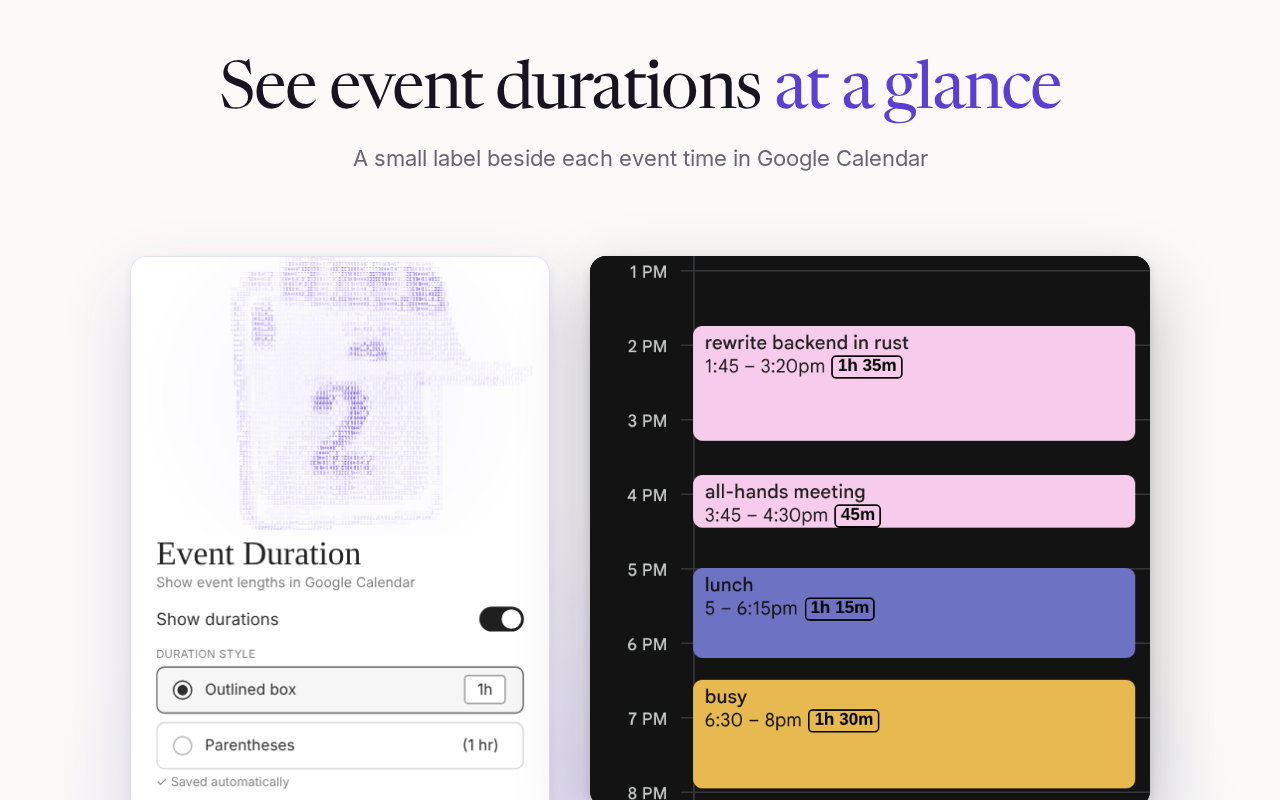
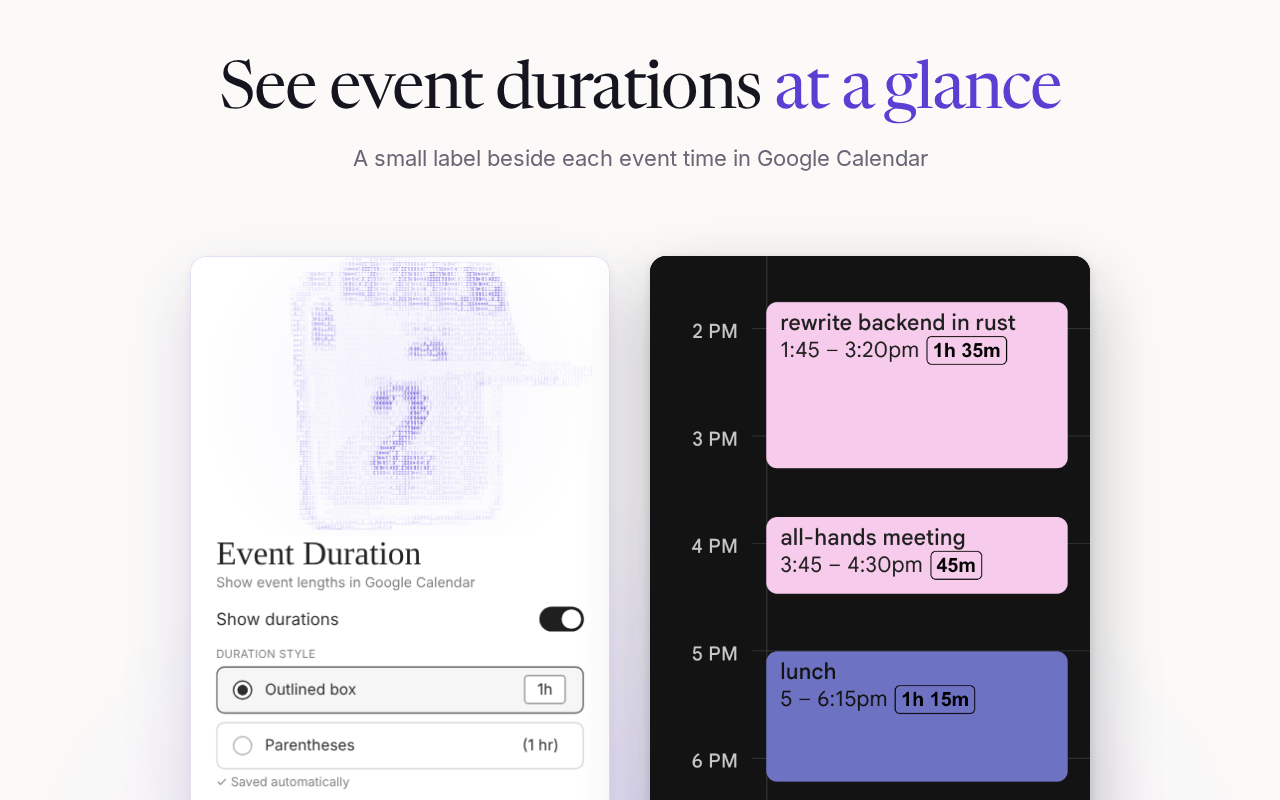
Use the supplied Calendar screenshot on the first store image

Changed region(s): [[0.2188, 0.3125, 0.9062, 1.0], [0.125, 0.6562, 0.375, 1.0], [0.1875, 0.375, 0.2188, 0.4375]]

diff --git a/docs/store-assets/README.md b/docs/store-assets/README.md
@@ -13,7 +13,7 @@ Upload-ready files (Chrome Web Store sizes: screenshots 1280×800, small promo t
 
 ## Editable sources
 
-`source/` holds the cropped captures every image is built from. They come from one live Google Calendar session (Week view, Sunday, October 18, 2026) with the unpacked 0.6.0 extension: `calendar-*.png` is one day's 1–8 PM column in each state (no date header), `popup-*.png` is the real extension popup in the same states, captured at 2× on a settled animation frame, `details-*.png` is the time line of one event's details popup, and `event-chip.png` is one event from the same session. The sidebar, other days, account details, and browser chrome were cropped out before saving. Raw full-window captures are not in the repository.
+`source/` holds the cropped captures every image is built from. They come from one live Google Calendar session (Week view, Sunday, October 18, 2026) with the unpacked 0.6.0 extension: `calendar-*.png` is one day's 1–8 PM column in each state (no date header), `popup-*.png` is the real extension popup in the same states, captured at 2× on a settled animation frame, `details-*.png` is the time line of one event's details popup, and `event-chip.png` is one event from the same session. `calendar-hero.png` is a screenshot of the same events from the maintainer's own Chrome, used on the first image for its thinner outlined boxes. The sidebar, other days, account details, and browser chrome were cropped out before saving. Raw full-window captures are not in the repository.
 
 `fonts/Newsreader.ttf` (SIL Open Font License, see `fonts/OFL.txt`) is the headline font for these images only; it is not part of the extension.
 
